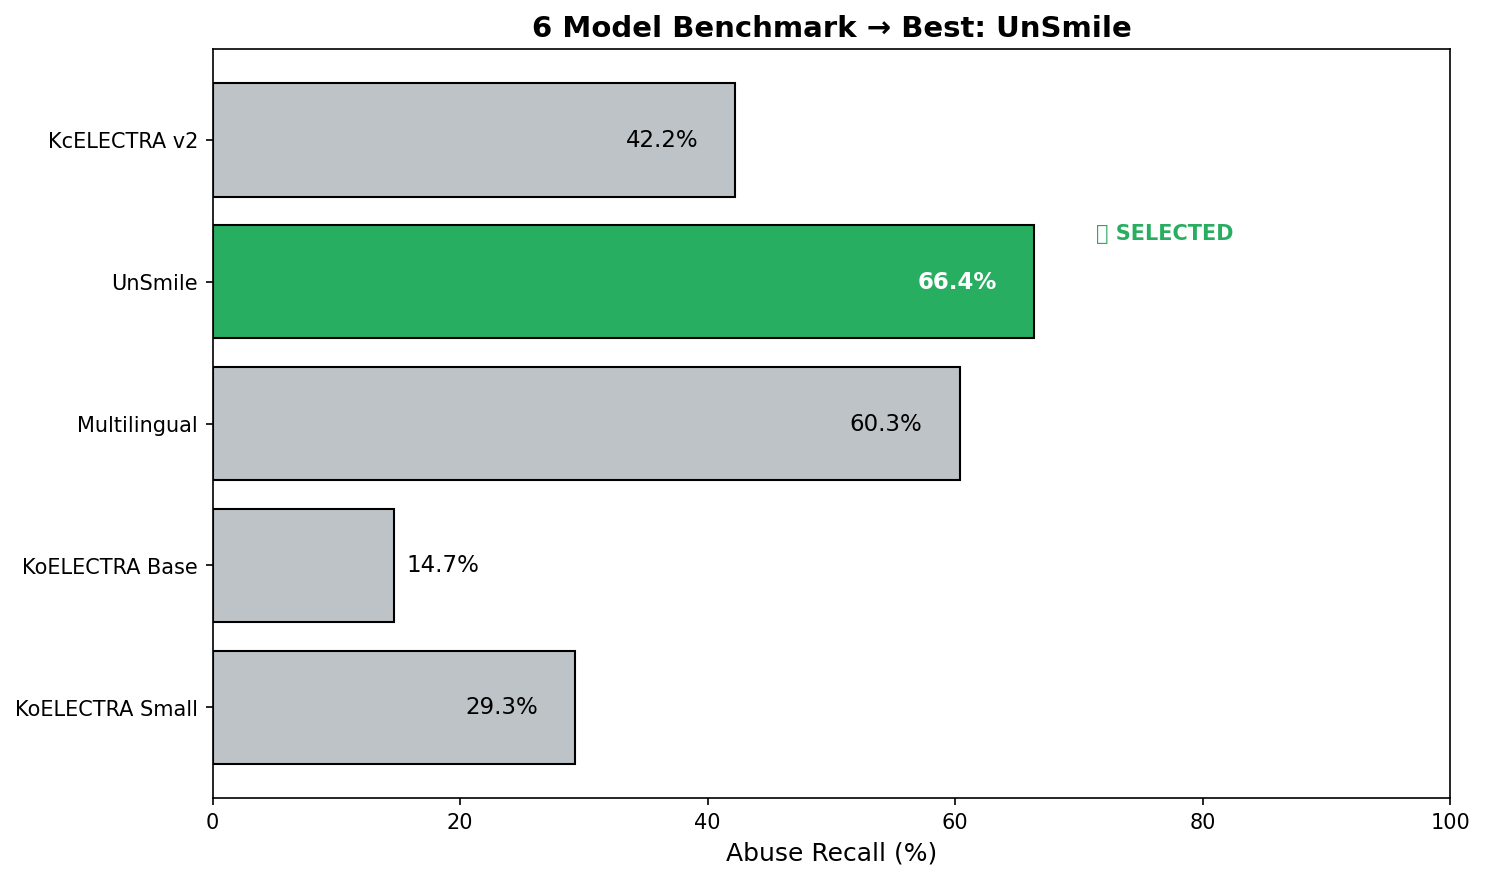
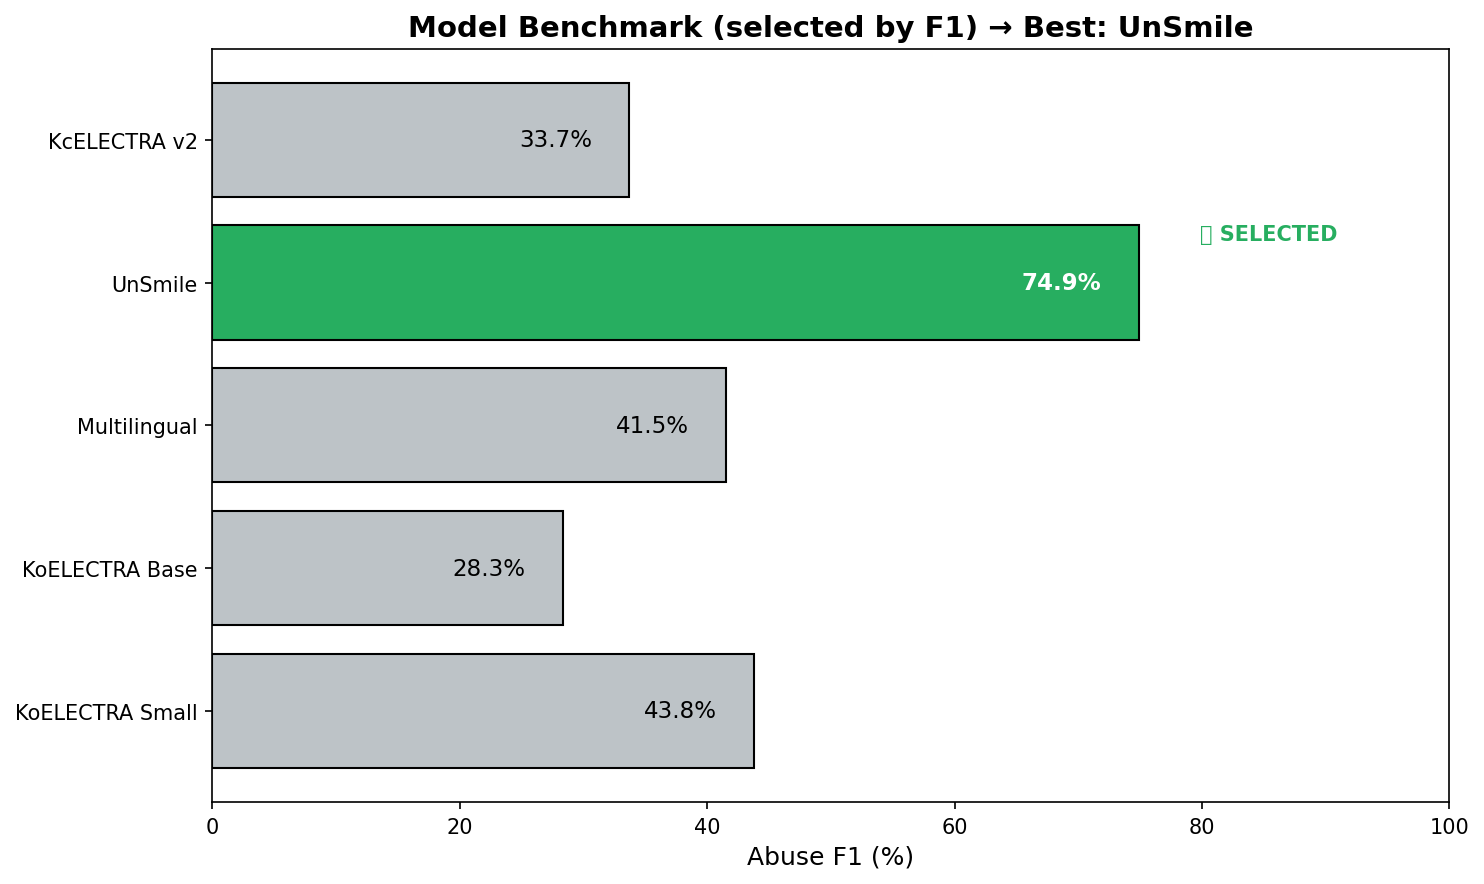
🐛 [AI] fix: 모델 선정 기준 recall→F1 수정 + 688 재평가 결과 갱신

diff --git a/1_Model_Selection/benchmark_game_stt.py b/1_Model_Selection/benchmark_game_stt.py
@@ -215,8 +215,8 @@ def create_visualizations(results):
     f1s = [r["abuse_f1"] * 100 for r in successful]
     latencies = [r["avg_latency"] for r in successful]
     
-    # 베스트 모델 인덱스
-    best_idx = np.argmax(recalls)
+    # 베스트 모델 인덱스 (선정 기준: Abuse F1 — recall-only는 over-flagging 모델을 잘못 선택)
+    best_idx = np.argmax(f1s)
     
     # Figure 1: 3-Panel 비교
     fig, axes = plt.subplots(1, 3, figsize=(15, 5))
@@ -258,23 +258,23 @@ def create_visualizations(results):
     fig, ax = plt.subplots(figsize=(10, 6))
     
     bar_colors = ['#27AE60' if i == best_idx else '#BDC3C7' for i in range(len(names))]
-    bars = ax.barh(names, recalls, color=bar_colors, edgecolor='black', linewidth=1)
-    
-    ax.set_xlabel('Abuse Recall (%)', fontsize=12)
-    ax.set_title(f'6 Model Benchmark → Best: {successful[best_idx]["model_name"]}', 
+    bars = ax.barh(names, f1s, color=bar_colors, edgecolor='black', linewidth=1)
+
+    ax.set_xlabel('Abuse F1 (%)', fontsize=12)
+    ax.set_title(f'Model Benchmark (selected by F1) → Best: {successful[best_idx]["model_name"]}',
                  fontsize=14, fontweight='bold')
     ax.set_xlim(0, 100)
-    
-    for i, (bar, val) in enumerate(zip(bars, recalls)):
+
+    for i, (bar, val) in enumerate(zip(bars, f1s)):
         color = 'white' if i == best_idx else 'black'
         weight = 'bold' if i == best_idx else 'normal'
-        ax.text(val - 3 if val > 15 else val + 1, i, f'{val:.1f}%', 
-                va='center', ha='right' if val > 15 else 'left', 
+        ax.text(val - 3 if val > 15 else val + 1, i, f'{val:.1f}%',
+                va='center', ha='right' if val > 15 else 'left',
                 fontsize=11, fontweight=weight, color=color)
-    
+
     # 베스트 모델 강조
-    ax.annotate('✅ SELECTED', xy=(recalls[best_idx], best_idx), 
-                xytext=(recalls[best_idx] + 5, best_idx + 0.3),
+    ax.annotate('✅ SELECTED', xy=(f1s[best_idx], best_idx),
+                xytext=(f1s[best_idx] + 5, best_idx + 0.3),
                 fontsize=10, fontweight='bold', color='#27AE60')
     
     plt.tight_layout()
@@ -330,12 +330,12 @@ def save_results(results, sentences_count):
     print(f"💾 저장: {RESULTS_DIR}/benchmark_results.json")
     
     # Markdown README
-    best = max(successful, key=lambda x: x["abuse_recall"])
+    best = max(successful, key=lambda x: x["abuse_f1"])
     
     md_content = f"""# 🎮 6개 모델 벤치마크 결과
 
 ## 📊 테스트 환경
-- **테스트 데이터**: `game_test.tsv` ({sentences_count}건)
+- **테스트 데이터**: `test_set.tsv` ({sentences_count}건, held-out)
 - **테스트 일시**: {datetime.now().strftime('%Y-%m-%d %H:%M')}
 - **데이터 출처**: 협동 게임 STT + 유튜브 협동게임 STT
 
@@ -347,27 +347,28 @@ def save_results(results, sentences_count):
 |------|:------------:|:--------:|:----:|
 """
     
-    for r in sorted(successful, key=lambda x: -x["abuse_recall"]):
+    for r in sorted(successful, key=lambda x: -x["abuse_f1"]):
         selected = "✅" if r["model_name"] == best["model_name"] else ""
         md_content += f"| {r['model_name']} | **{r['abuse_recall']*100:.2f}%** | {r['abuse_f1']*100:.2f}% | {selected} |\n"
     
     md_content += f"""
 ---
 
-## 🎯 UnSmile 선정 이유
+## 🎯 {best['model_name']} 선정 이유
 
-### 1. 최고 성능
-- **Abuse Recall**: {best['abuse_recall']*100:.2f}% (6개 모델 중 1위)
-- **Abuse F1**: {best['abuse_f1']*100:.2f}%
+### 1. 최고 성능 (선정 기준: Abuse F1)
+- **Abuse F1**: {best['abuse_f1']*100:.2f}% (모델 중 1위)
+- **Abuse Precision**: {best['abuse_precision']*100:.2f}% · **Recall**: {best['abuse_recall']*100:.2f}%
+- **Accuracy**: {best['accuracy']*100:.2f}% · **Clean F1**: {best['clean_f1']*100:.2f}%
+
+> ⚠ 선정은 Recall이 아니라 **F1 기준**. 단순 Recall 최대 모델은 거의 모든 문장을 욕설로 분류해(Precision↓·오탐↑) 실사용 불가 → 균형 지표로 선정.
 
 ### 2. 한국어 혐오 발언 전용
-- Smilegate AI에서 개발한 **한국어 혐오 발언 탐지** 전용 모델
-- 댓글/채팅 데이터로 학습되어 게임 대화에 적합
+- Smilegate AI의 **한국어 혐오 발언 탐지** 전용 모델, 댓글/채팅 학습 → 게임 대화에 적합
 
 ### 3. 다른 모델 한계
-- **KoELECTRA 계열**: Fine-tuning 안 된 베이스 모델 → 성능 저조
-- **Korean Sentiment**: 일반 감정 분석 → 욕설 특화 X
-- **Multilingual**: 한국어 성능 부족
+- **KoELECTRA / Multilingual**: 베이스 모델 → over-flagging으로 Precision 저조
+- **KcELECTRA v2**: 일반 도메인 → 게임 욕설 특화 부족
 
 ---
 
@@ -436,8 +437,8 @@ if __name__ == "__main__":
     # 베스트 모델
     successful = [r for r in all_results if not r.get("error")]
     if successful:
-        best = max(successful, key=lambda x: x["abuse_recall"])
-        print(f"\n🏆 Best: {best['model_name']} (Abuse Recall: {best['abuse_recall']*100:.2f}%)")
+        best = max(successful, key=lambda x: x["abuse_f1"])
+        print(f"\n🏆 Best: {best['model_name']} (Abuse F1: {best['abuse_f1']*100:.2f}%)")
     
     # 시각화 및 저장
     create_visualizations(all_results)

diff --git a/1_Model_Selection/results/MODEL_BENCHMARK.md b/1_Model_Selection/results/MODEL_BENCHMARK.md
@@ -1,8 +1,8 @@
 # 🎮 6개 모델 벤치마크 결과
 
 ## 📊 테스트 환경
-- **테스트 데이터**: `game_test.tsv` (187건)
-- **테스트 일시**: 2026-02-08 17:30
+- **테스트 데이터**: `test_set.tsv` (688건, held-out)
+- **테스트 일시**: 2026-06-03 16:12
 - **데이터 출처**: 협동 게임 STT + 유튜브 협동게임 STT
 
 ---
@@ -11,28 +11,29 @@
 
 | 모델 | Abuse Recall | Abuse F1 | 선정 |
 |------|:------------:|:--------:|:----:|
-| UnSmile | **66.38%** | 78.97% | ✅ |
-| Multilingual | **60.34%** | 60.87% |  |
-| KcELECTRA v2 | **42.24%** | 54.14% |  |
-| KoELECTRA Small | **29.31%** | 40.00% |  |
-| KoELECTRA Base | **14.66%** | 22.22% |  |
+| UnSmile | **66.51%** | 74.87% | ✅ |
+| KoELECTRA Small | **86.98%** | 43.79% |  |
+| Multilingual | **68.84%** | 41.51% |  |
+| KcELECTRA v2 | **28.84%** | 33.70% |  |
+| KoELECTRA Base | **36.28%** | 28.31% |  |
 
 ---
 
 ## 🎯 UnSmile 선정 이유
 
-### 1. 최고 성능
-- **Abuse Recall**: 66.38% (6개 모델 중 1위)
-- **Abuse F1**: 78.97%
+### 1. 최고 성능 (선정 기준: Abuse F1)
+- **Abuse F1**: 74.87% (모델 중 1위)
+- **Abuse Precision**: 85.63% · **Recall**: 66.51%
+- **Accuracy**: 86.05% · **Clean F1**: 90.34%
+
+> ⚠ 선정은 Recall이 아니라 **F1 기준**. 단순 Recall 최대 모델은 거의 모든 문장을 욕설로 분류해(Precision↓·오탐↑) 실사용 불가 → 균형 지표로 선정.
 
 ### 2. 한국어 혐오 발언 전용
-- Smilegate AI에서 개발한 **한국어 혐오 발언 탐지** 전용 모델
-- 댓글/채팅 데이터로 학습되어 게임 대화에 적합
+- Smilegate AI의 **한국어 혐오 발언 탐지** 전용 모델, 댓글/채팅 학습 → 게임 대화에 적합
 
 ### 3. 다른 모델 한계
-- **KoELECTRA 계열**: Fine-tuning 안 된 베이스 모델 → 성능 저조
-- **Korean Sentiment**: 일반 감정 분석 → 욕설 특화 X
-- **Multilingual**: 한국어 성능 부족
+- **KoELECTRA / Multilingual**: 베이스 모델 → over-flagging으로 Precision 저조
+- **KcELECTRA v2**: 일반 도메인 → 게임 욕설 특화 부족
 
 ---
 
@@ -50,11 +51,11 @@
 
 | 모델 | TP | TN | FP | FN | Precision | Recall |
 |------|:--:|:--:|:--:|:--:|:---------:|:------:|
-| KoELECTRA Small | 34 | 51 | 20 | 82 | 63.0% | 29.3% |
-| KoELECTRA Base | 17 | 51 | 20 | 99 | 45.9% | 14.7% |
-| Multilingual | 70 | 27 | 44 | 46 | 61.4% | 60.3% |
-| UnSmile | 77 | 69 | 2 | 39 | 97.5% | 66.4% |
-| KcELECTRA v2 | 49 | 55 | 16 | 67 | 75.4% | 42.2% |
+| KoELECTRA Small | 187 | 21 | 452 | 28 | 29.3% | 87.0% |
+| KoELECTRA Base | 78 | 215 | 258 | 137 | 23.2% | 36.3% |
+| Multilingual | 148 | 123 | 350 | 67 | 29.7% | 68.8% |
+| UnSmile | 143 | 449 | 24 | 72 | 85.6% | 66.5% |
+| KcELECTRA v2 | 62 | 382 | 91 | 153 | 40.5% | 28.8% |
 
 ---
 
